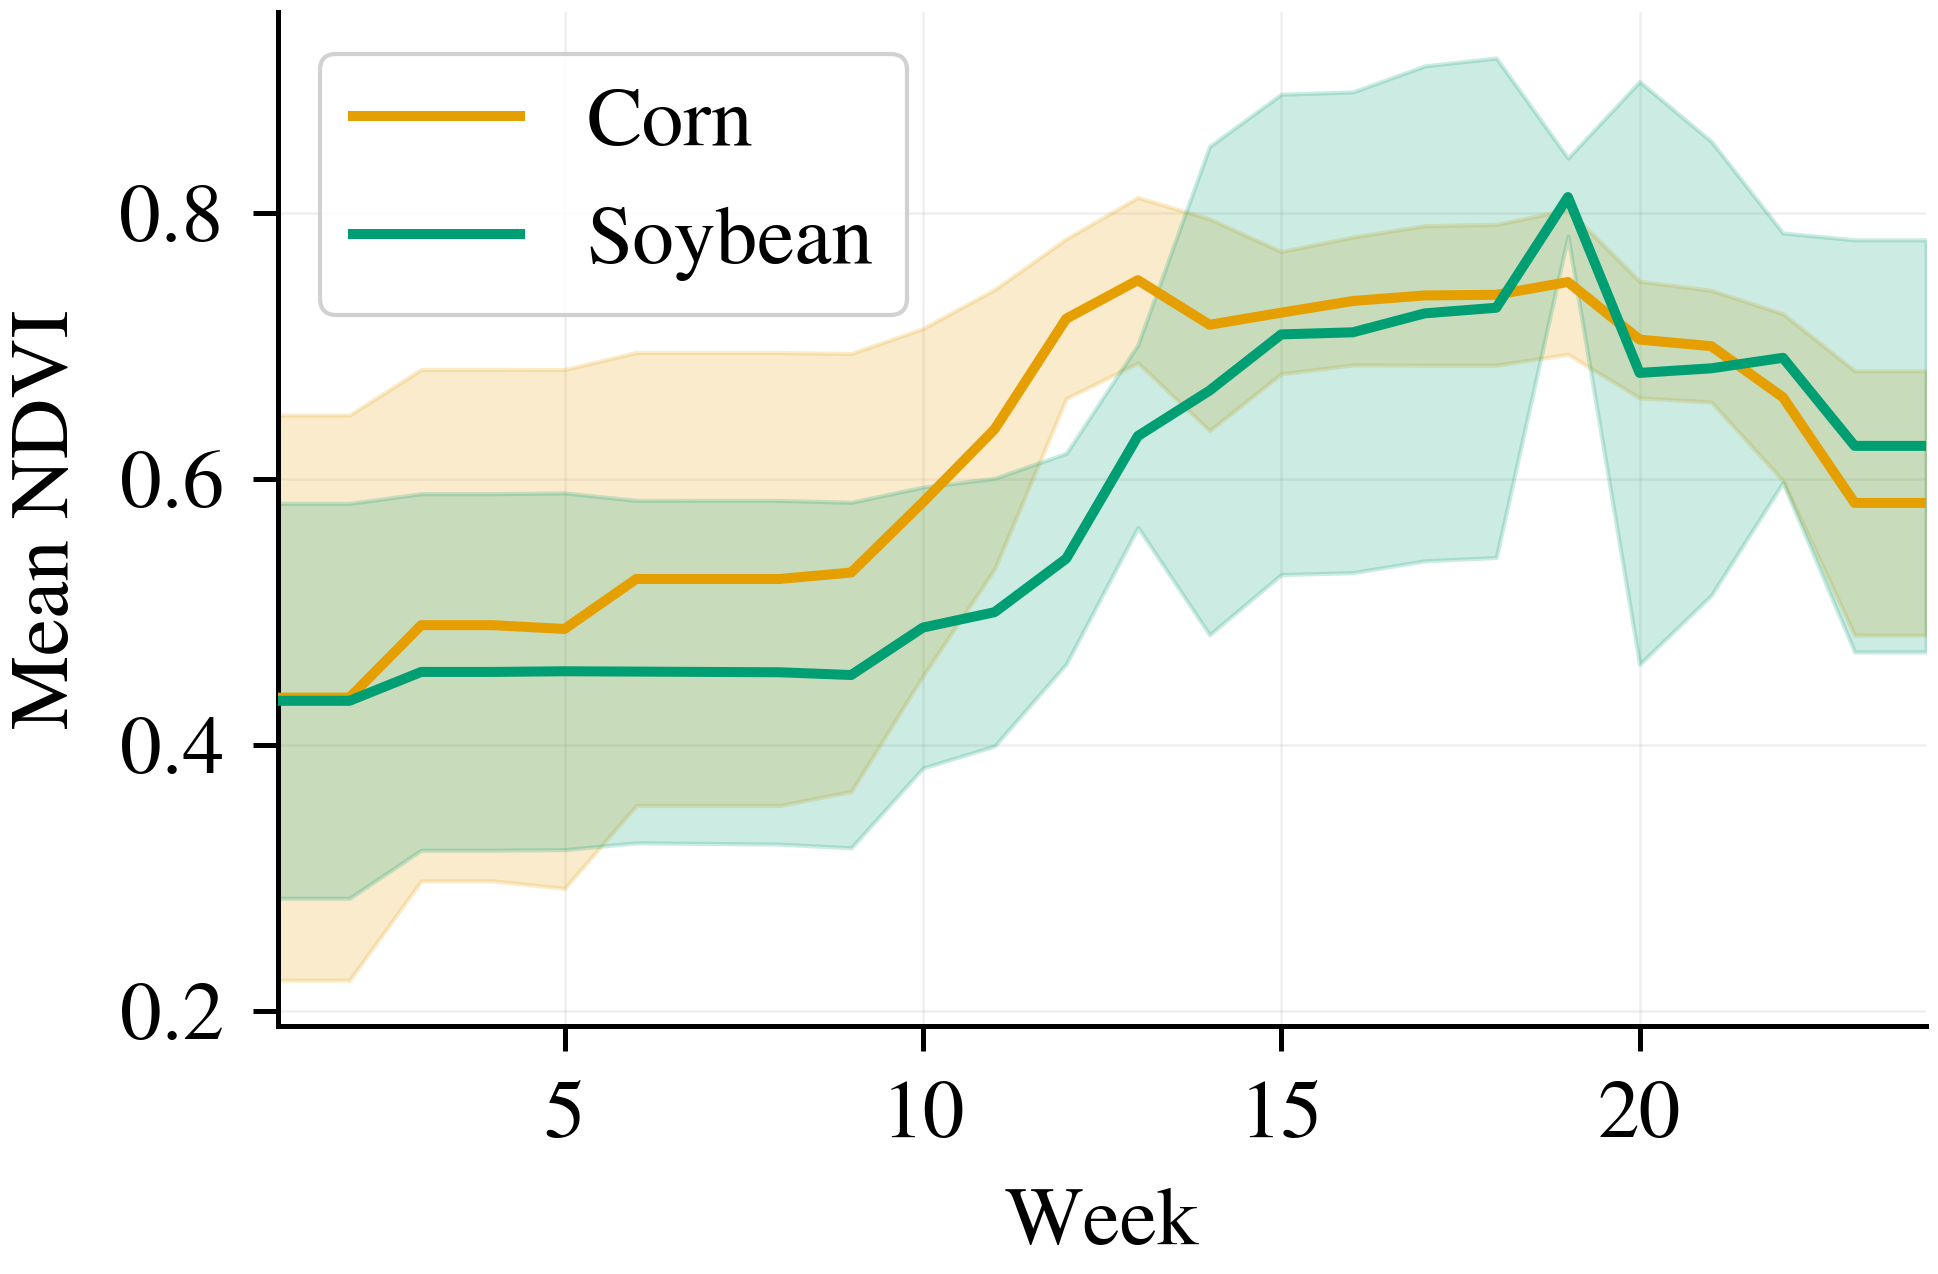
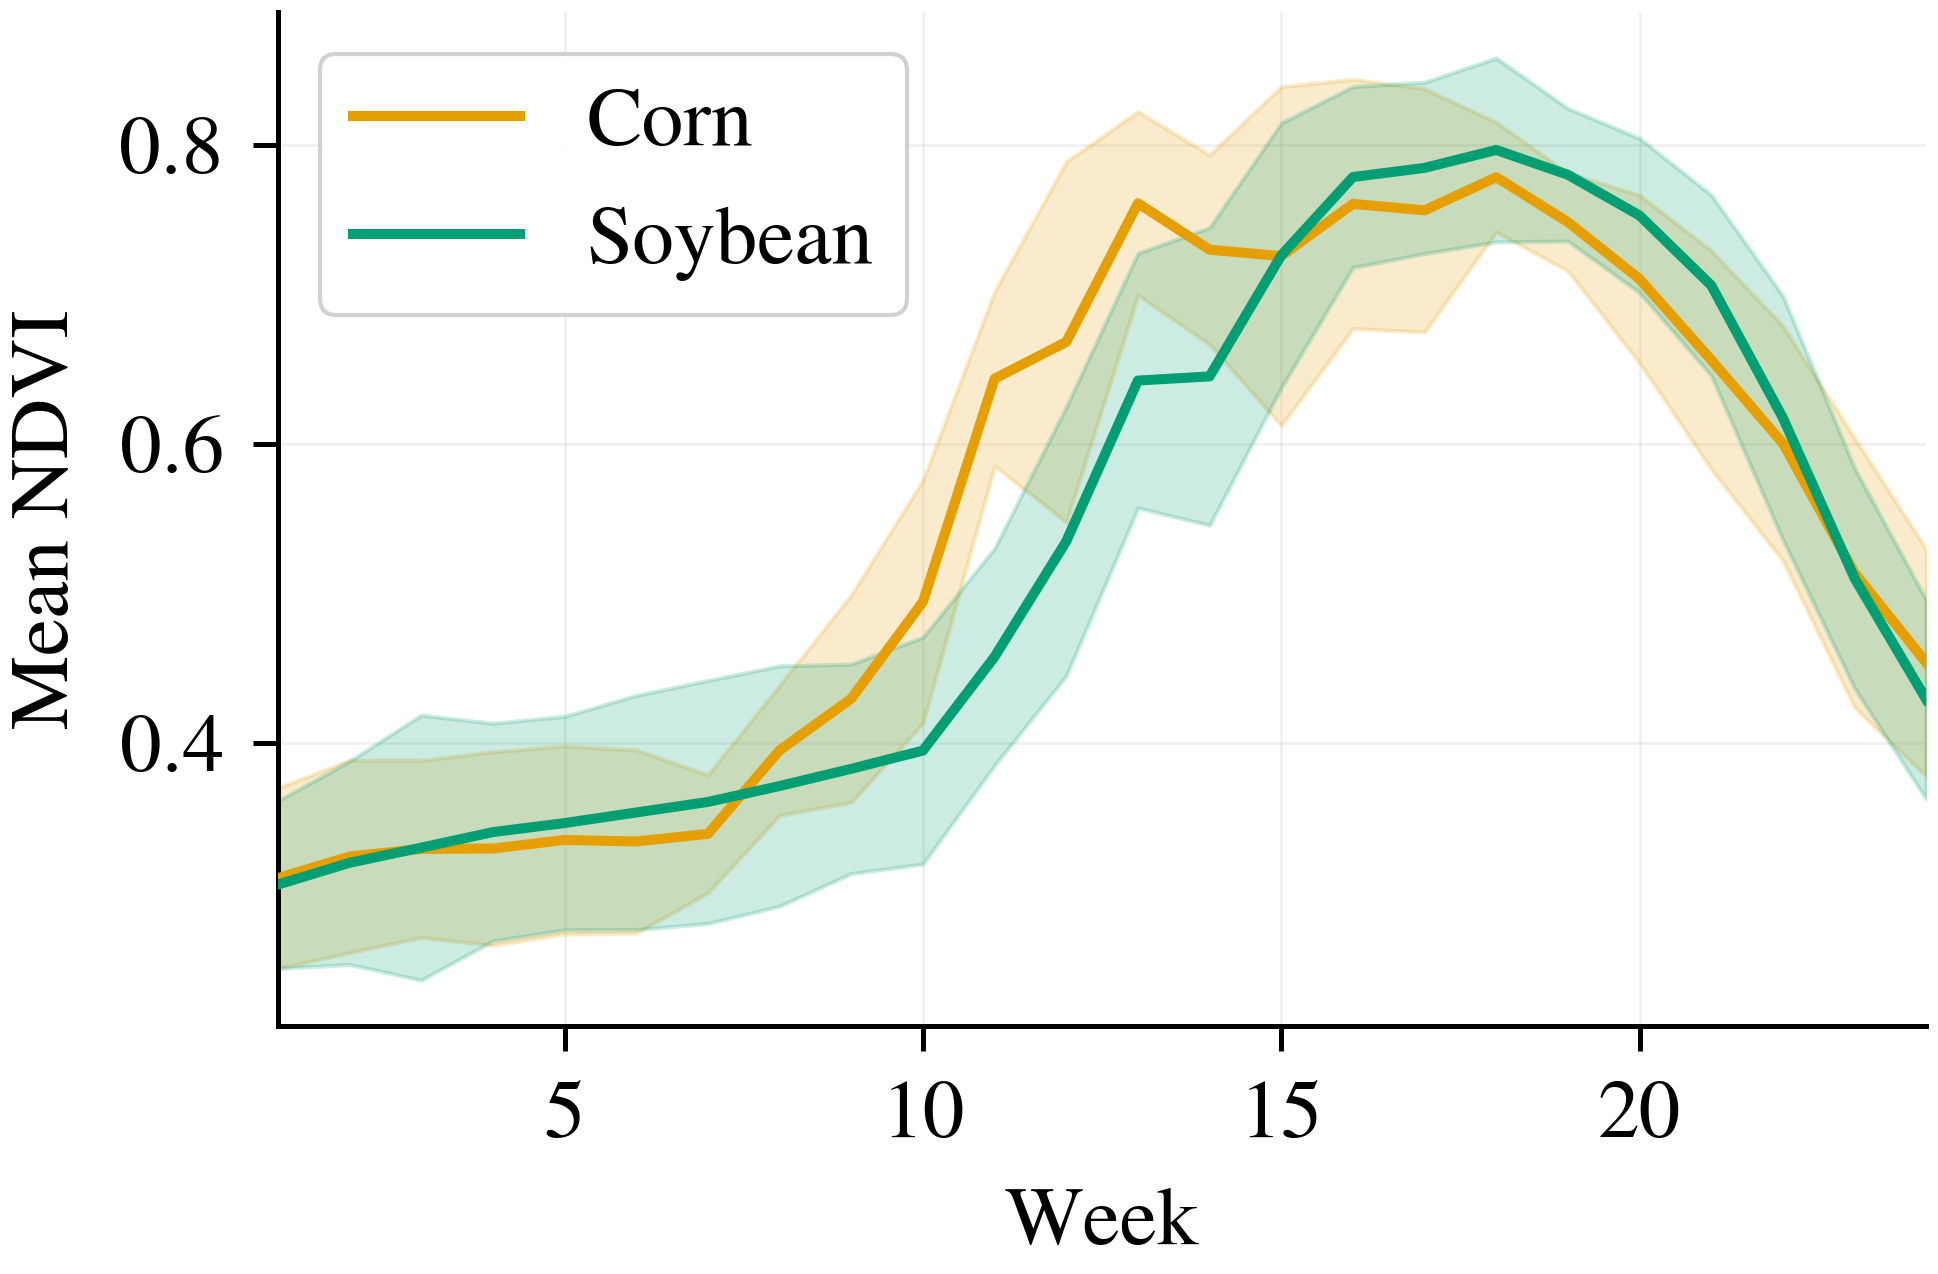
DEV: Corrected the NDVI plot to use only the test data

Changed region(s): [[0.0619, 0.0306, 1.0, 0.8265], [0.0619, 0.0918, 0.1238, 0.1837], [0.0619, 0.5816, 0.0929, 0.6122]]

diff --git a/generate_journal_figures.py b/generate_journal_figures.py
@@ -1340,11 +1340,18 @@ def fig13_ndvi_temporal():
     """Show NDVI temporal profiles from S2 data across the growing season."""
     print('Figure 13: NDVI temporal profiles...')
 
-    base = 'processed_data/weekly_24/processed_data_weekly_24/S2L2A'
-    all_files = sorted(os.listdir(base))
+    split_base = 'processed_data/weekly_24/processed_data_weekly_24'
+    base = os.path.join(split_base, 'S2L2A')
 
-    corn_files = [f for f in all_files if 'Corn' in f][:20]
-    soy_files = [f for f in all_files if 'Soybean' in f][:20]
+    # Read test split files to get field names
+    with open(os.path.join(split_base, 'test_corn.txt')) as f:
+        corn_files = [line.strip() + '.npy' for line in f if line.strip()]
+    with open(os.path.join(split_base, 'test_soybean.txt')) as f:
+        soy_files = [line.strip() + '.npy' for line in f if line.strip()]
+
+    # Filter to files that actually exist
+    corn_files = [f for f in corn_files if os.path.exists(os.path.join(base, f))]
+    soy_files = [f for f in soy_files if os.path.exists(os.path.join(base, f))]
 
     def compute_ndvi_profile(files):
         profiles = []
